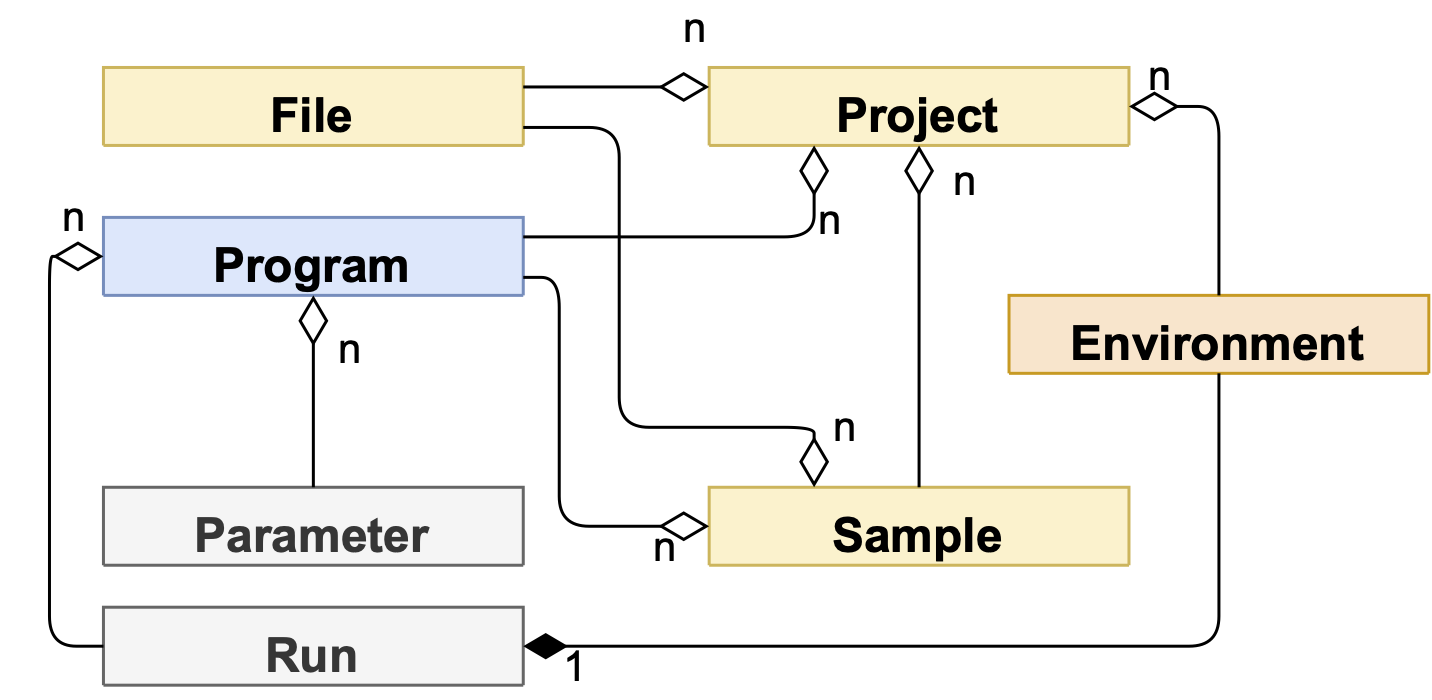
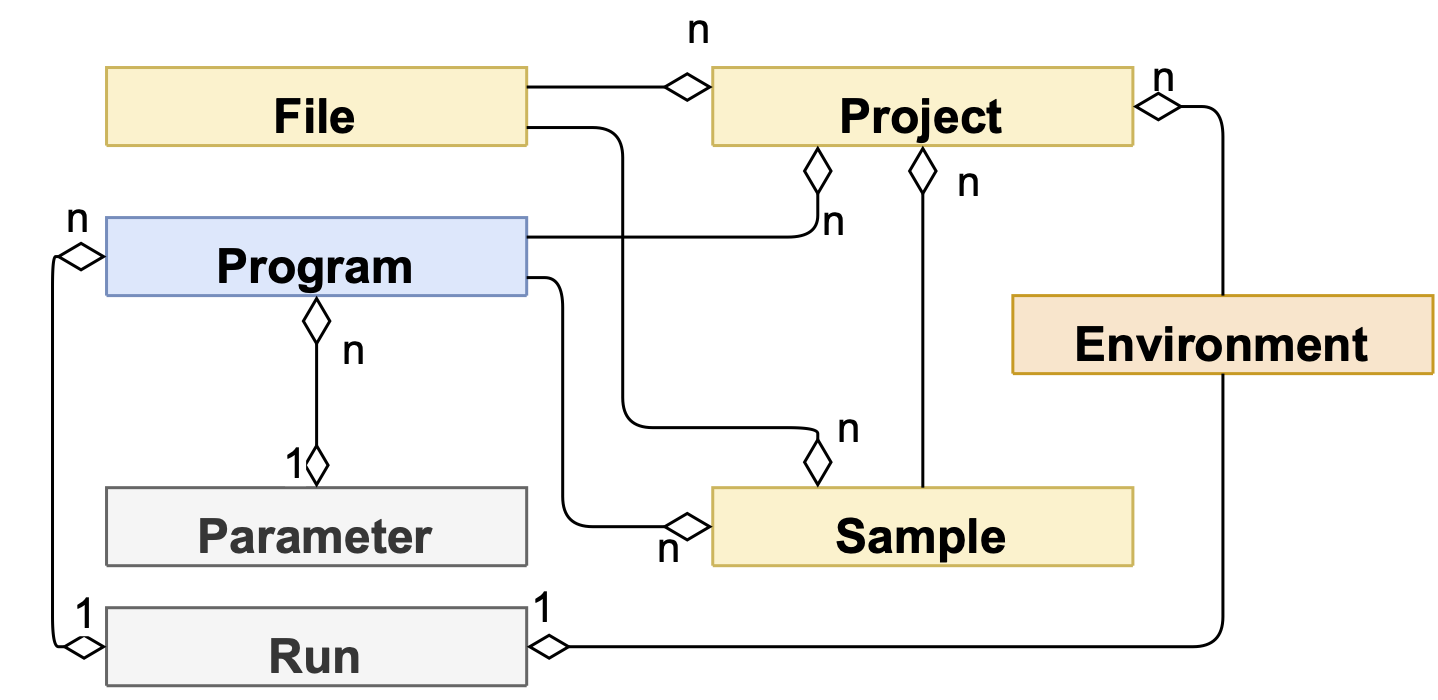
Edit 'classes' figure and caption.

diff --git a/paper/paper.md b/paper/paper.md
@@ -146,8 +146,7 @@ act on behalf of the current user.
 ![Class diagram showing composition relationships between classes in the BioProv library. Instances of the Project, Sample and File
 classes (in yellow) are represented as entities in the provenance data model, while instances of the Program class (in blue)
 are represented as activities, and instances of the Environment class (in orange) are represented as agents. The Parameter
-and Run classes are auxiliary classes that compose the Program class. Diamond symbols represent composition relationships. The filled
-diamond symbol indicates that an instance of Run must be necessarily associated with an instance of Environment.
+and Run classes are auxiliary classes that compose the Program class.
 \label{fig:classes}](figures/classes.png){ width=75% }
 
 BioProv detects the current user and environment variables and stores them alongside the Project;
